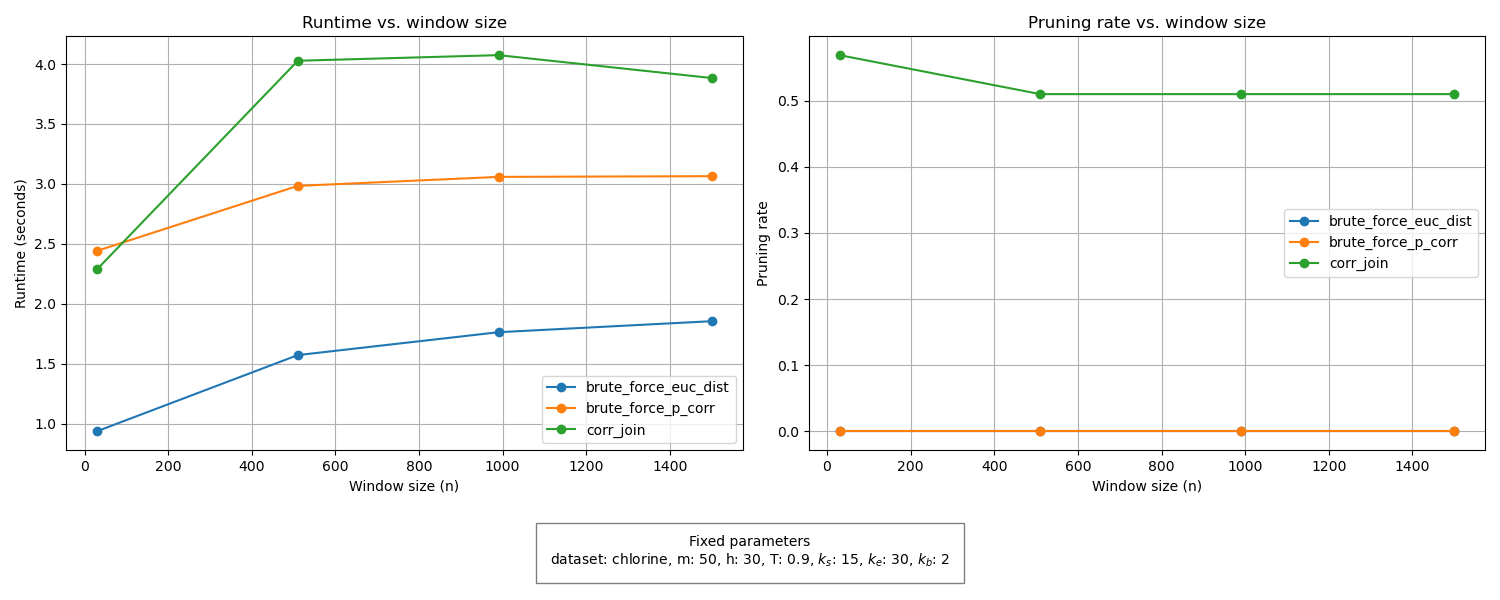
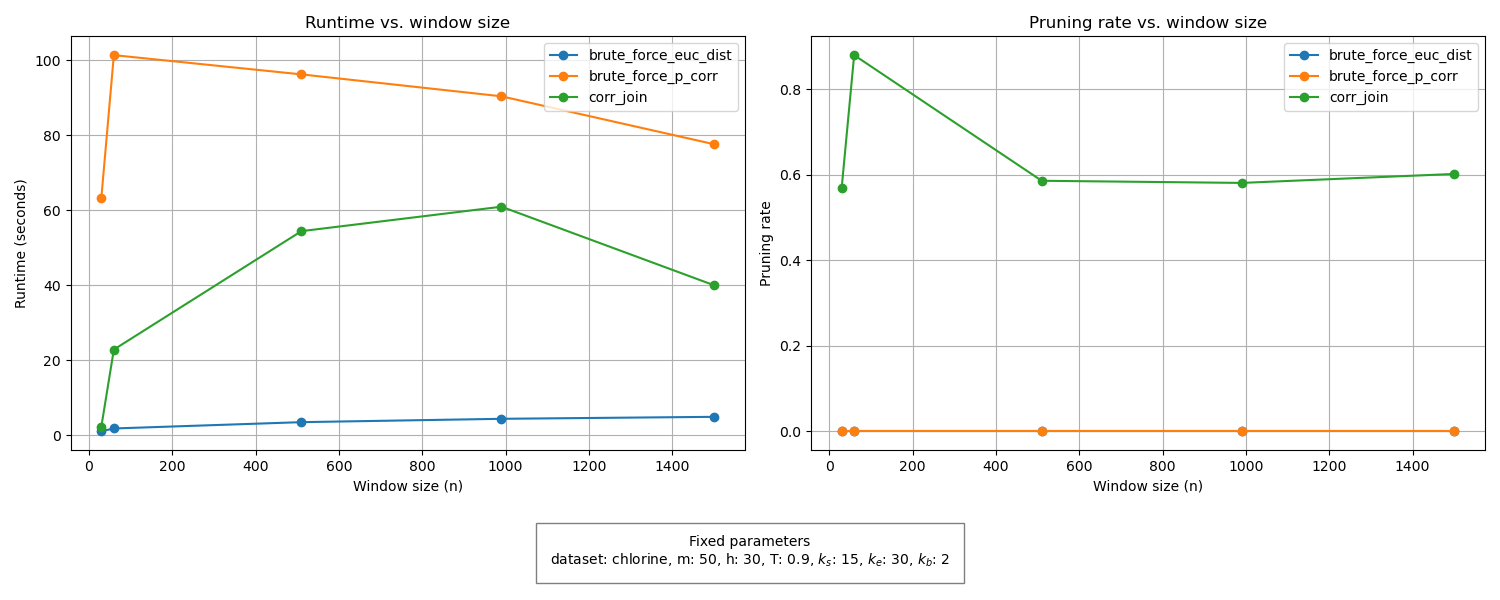
feat: Regenerate data for plots with refactored algos

diff --git a/code/brute_force_implementation/plot.py b/code/brute_force_implementation/plot.py
@@ -48,7 +48,7 @@ def t_runtime_pr(df, ds_name: str, m: int, params):
   # Plot 1: Runtime vs. correlation threshold
   for i, algo in enumerate(algorithms):
     algo_df = result_df[result_df['algorithm'] == algo]
-    ax1.plot(algo_df['T'], algo_df['runtime'], marker='o', label=algo, color=color_map[i])
+    ax1.plot(algo_df['T'], algo_df['runtime [s]'], marker='o', label=algo, color=color_map[i])
 
   ax1.set_xlabel('Correlation threshold (T)')
   ax1.set_ylabel('Runtime (seconds)')
@@ -125,7 +125,7 @@ def n_runtime_pr(df, ds_name: str, m: int, params):
   # Plot 1: Runtime vs. window size
   for i, algo in enumerate(algorithms):
     algo_df = result_df[result_df['algorithm'] == algo]
-    ax1.plot(algo_df['n'], algo_df['runtime'], marker='o', label=algo, color=color_map[i])
+    ax1.plot(algo_df['n'], algo_df['runtime [s]'], marker='o', label=algo, color=color_map[i])
 
   ax1.set_xlabel('Window size (n)')
   ax1.set_ylabel('Runtime (seconds)')
@@ -201,7 +201,7 @@ def h_runtime(df, ds_name: str, m: int, params):
   # Plot: Runtime vs. variable
   for i, algo in enumerate(algorithms):
     algo_df = result_df[result_df['algorithm'] == algo]
-    ax.plot(algo_df['h'], algo_df['runtime'], marker='o', label=algo, color=color_map[i])
+    ax.plot(algo_df['h'], algo_df['runtime [s]'], marker='o', label=algo, color=color_map[i])
 
   ax.set_xlabel('Stride (h)')
   ax.set_ylabel('Runtime (seconds)')
@@ -266,7 +266,7 @@ def m_runtime(df, ds_name: str, params):
   # Plot: Runtime vs. the variable
   for i, algo in enumerate(algorithms):
     algo_df = result_df[result_df['algorithm'] == algo]
-    ax.plot(algo_df['m'], algo_df['runtime'], marker='o', label=algo, color=color_map[i])
+    ax.plot(algo_df['m'], algo_df['runtime [s]'], marker='o', label=algo, color=color_map[i])
 
   ax.set_xlabel('Number of time series (m)')
   ax.set_ylabel('Runtime (seconds)')

diff --git a/code/brute_force_implementation/main.py b/code/brute_force_implementation/main.py
@@ -41,6 +41,7 @@ def gen_t_runtime_pr_data(perf_logger):
   plots.
   """
   for i in range(7):
+    print(f"log info: start run {i}")
     # Chlorine dataset
     corr_join_wrapper("chlorine", f"chlorine_0_run_{i}", perf_logger, m=50)
     corr_join_wrapper("chlorine", f"chlorine_0_run_{i}", perf_logger, m=50, algorithm_1=brute_force_p_corr)
@@ -57,6 +58,7 @@ def gen_n_runtime_pr_data(perf_logger):
   plots.
   """
   for i in range(4):
+    print(f"log info: start run {i}")
     # Chlorine dataset
     corr_join_wrapper("chlorine", f"chlorine_1_run_{i}", perf_logger, m=50)
     corr_join_wrapper("chlorine", f"chlorine_1_run_{i}", perf_logger, m=50, algorithm_1=brute_force_p_corr)
@@ -72,6 +74,7 @@ def gen_h_runtime(perf_logger):
   Generate performance data for the runtime vs. h plots.
   """
   for i in range(5):
+    print(f"log info: start run {i}")
     # Chlorine dataset
     corr_join_wrapper("chlorine", f"chlorine_var_h_run_{i}", perf_logger, m=50)
     corr_join_wrapper("chlorine", f"chlorine_var_h_run_{i}", perf_logger, m=50, algorithm_1=brute_force_p_corr)
@@ -92,7 +95,10 @@ if __name__ == '__main__':
   # Use the same logger for all runs to avoid duplicate entries
   perf_logger = util.create_csv_logger("performance_logger", logging.INFO,
     "performance_log.csv")
-  # gen_t_runtime_pr_data(perf_logger)
   corr_join_wrapper("chlorine", "chlorine_params_2", perf_logger, m=50)
   # corr_join_wrapper("chlorine", f"chlorine_1_run_{0}", perf_logger, m=50, algorithm_1=brute_force_p_corr)
   # corr_join_wrapper("chlorine", f"chlorine_1_run_{3}", perf_logger, m=50, algorithm_1=brute_force_euc_dist)
+  # gen_t_runtime_pr_data(perf_logger)
+  # gen_n_runtime_pr_data(perf_logger)
+  # gen_h_runtime(perf_logger)
+  # gen_n_runtime(perf_logger)

diff --git a/code/brute_force_implementation/bucketing_filter.py b/code/brute_force_implementation/bucketing_filter.py
@@ -50,7 +50,8 @@ def bucketing_filter(W_b, k_b: int, eps):
   join_pruning_rate (float): The pruning rate from the bucketing filter.
   """
   m = len(W_b)
-  # C_1 = set()
+  # Initialize C_1 as an empty array, because otherwise it might never be intialized
+  C_1 = np.empty((0, 2), dtype=int)
 
   # initialize k_b-dimensional bucketing scheme
   bkt_lwr_bnd = floor_epsilon(np.min(W_b), eps)
@@ -113,6 +114,5 @@ def bucketing_filter(W_b, k_b: int, eps):
         new_pairs = np.vstack((i_vals, j_vals)).T  # Shape: (n, 2)
         C_1 = np.vstack((C_1, new_pairs))  # Append to `C_1`
 
-  # join_pruning_rate = 1 - len(C_1)/pow(m, 2)
   join_pruning_rate = 1 - C_1.shape[0]/pow(m, 2)
   return C_1, join_pruning_rate

diff --git a/code/brute_force_implementation/util.py b/code/brute_force_implementation/util.py
@@ -44,7 +44,7 @@ def get_params(params_name: str):
     "chlorine_0_run_6": (512, 64, 0.99, 16, 32, 2),
     # Params for runtime vs. n and pruning rate vs. n plots
     "chlorine_1_plot_0": (-1, 30, 0.9, 15, 30, 2),
-    "chlorine_1_run_0": (30, 30, 0.9, 15, 30, 2),
+    "chlorine_1_run_0": (60, 30, 0.9, 15, 30, 2),
     "chlorine_1_run_1": (510, 30, 0.9, 15, 30, 2),
     "chlorine_1_run_2": (990, 30, 0.9, 15, 30, 2),
     "chlorine_1_run_3": (1500, 30, 0.9, 15, 30, 2),

diff --git a/code/brute_force_implementation/paa.py b/code/brute_force_implementation/paa.py
@@ -18,7 +18,7 @@ def paa_pyts(time_series, n: int, k: int):
   np.ndarray: A matrix with time series of length k.
   """
   if n%k != 0 or not k < n:
-    raise ValueError("Choose k such that k < n and k divides n.")
+    raise ValueError(f"Choose k such that k < n and k divides n. You chose n = {n} and k = {k}")
   transformer = PiecewiseAggregateApproximation(window_size=n//k)
   return transformer.transform(time_series)
 
